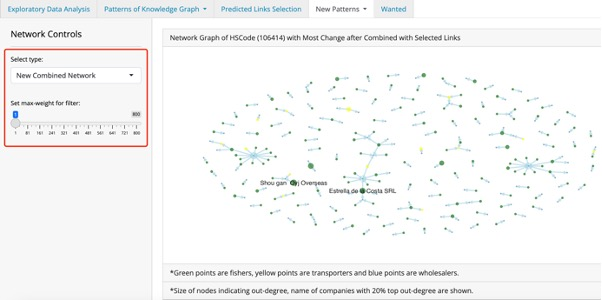
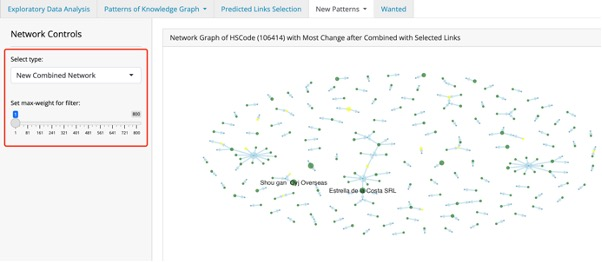
commit to update shiny link

diff --git a/_site/user_guide/shiny_user_guide.html b/_site/user_guide/shiny_user_guide.html
@@ -6,10 +6,8 @@
 
 <meta name="viewport" content="width=device-width, initial-scale=1.0, user-scalable=yes">
 
-<meta name="author" content="LIM Li Ying, YEN Yun-hsuan, LIANG YAO">
-<meta name="dcterms.date" content="2023-06-02">
 
-<title>FIND or BE BLIND - Shiny APP User Guide</title>
+<title>FIND or BE BLIND – shiny_user_guide</title>
 <style>
 code{white-space: pre-wrap;}
 span.smallcaps{font-variant: small-caps;}
@@ -138,44 +136,11 @@ ul.task-list li input[type="checkbox"] {
 <!-- main -->
 <main class="content" id="quarto-document-content">
 
-<header id="title-block-header" class="quarto-title-block default">
-<div class="quarto-title">
-<h1 class="title">Shiny APP User Guide</h1>
-</div>
 
-
-
-<div class="quarto-title-meta">
-
-    <div>
-    <div class="quarto-title-meta-heading">Author</div>
-    <div class="quarto-title-meta-contents">
-             <p>LIM Li Ying, YEN Yun-hsuan, LIANG YAO </p>
-          </div>
-  </div>
-    
-    <div>
-    <div class="quarto-title-meta-heading">Published</div>
-    <div class="quarto-title-meta-contents">
-      <p class="date">June 2, 2023</p>
-    </div>
-  </div>
-  
-    <div>
-    <div class="quarto-title-meta-heading">Modified</div>
-    <div class="quarto-title-meta-contents">
-      <p class="date-modified">July 4, 2023</p>
-    </div>
-  </div>
-    
-  </div>
-  
-
-</header>
 
 <section id="find-or-be-blind-fraud-fishing-detection-for-fisheye" class="level2">
-<h2 class="anchored" data-anchor-id="find-or-be-blind-fraud-fishing-detection-for-fisheye"><a href="https://smu-vaa-team8.shinyapps.io/VAA_team_8/">Find or Be Blind: Fraud Fishing Detection for Fisheye</a></h2>
-<p><a href="https://smu-liangyao.shinyapps.io/VAA_team_8/">(click to go to</a><a href="https://smu-vaa-team8.shinyapps.io/VAA_team_8/">Shiny</a><a href="https://smu-liangyao.shinyapps.io/VAA_team_8/">APP)</a></p>
+<h2 class="anchored" data-anchor-id="find-or-be-blind-fraud-fishing-detection-for-fisheye"><a href="https://smu-vaa.shinyapps.io/Shiny_VAA/">Find or Be Blind: Fraud Fishing Detection for Fisheye</a></h2>
+<p><a href="https://smu-vaa.shinyapps.io/Shiny_VAA/">(click to go to Shiny APP)</a></p>
 </section>
 <section id="exploratory-data-analysis-eda" class="level2">
 <h2 class="anchored" data-anchor-id="exploratory-data-analysis-eda"><strong>1. Exploratory Data Analysis (EDA)</strong></h2>
@@ -223,7 +188,7 @@ ul.task-list li input[type="checkbox"] {
 <li><p>Nodes size along with nodes’ out-degree;</p></li>
 <li><p>Edge width along with weights.</p></li>
 </ul>
-<p><img src="images/origin network.jpg" class="img-fluid" width="592"></p>
+<p><img src="images/origin network.jpg" class="img-fluid" width="595"></p>
 </section>
 </section>
 <section id="predicted-links-selection" class="level2">
